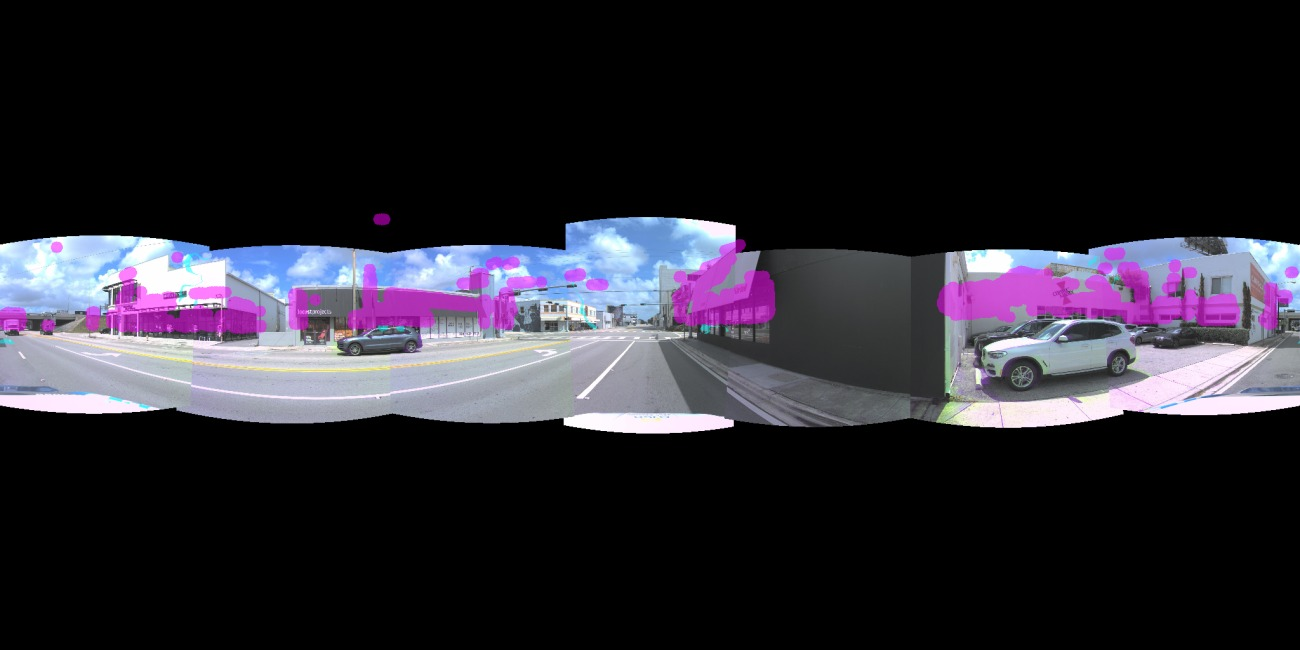
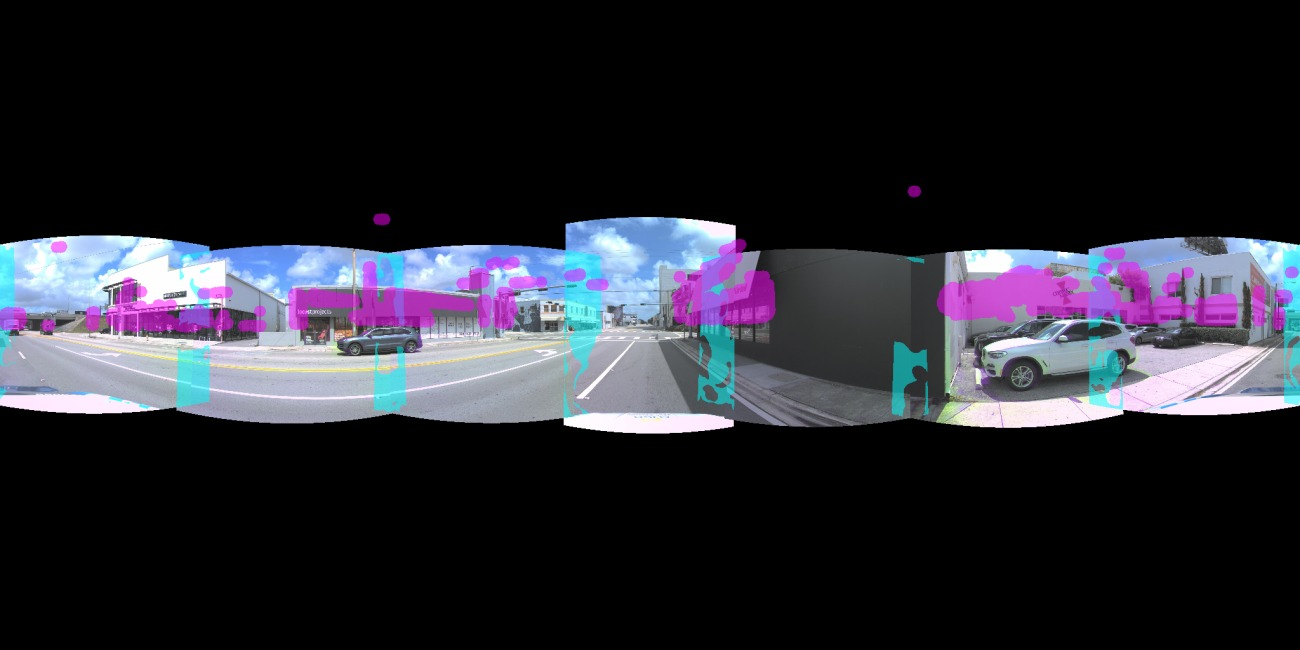
research(A1 re-do → CONVERGED): faithful Surround360 flow view-interp = clean L1++ on 3 anchors; LiDAR coarse-plane refuted
Took the Google/Meta path to convergence (user mandate "把这条路走到尽头"). Findings, all
vision-judged on every image (BMW + 0bae + fbee):

- view+none (pure Surround360 flow view-interp) = a CLEAN ROBUST L1++: singles the GEOMETRIC
  seam doubling on textured co-visible surfaces (strict gain over E1.5's photometric-only),
  salient near objects intact (FB-gate abstains on large-parallax/occluding -> kept L1), far
  field byte-exact (relative_warp M_p90 0.045-0.18px), ~3% edited. Consistent across 3 anchors.
- --prealign plane (DB-11's coarse-LiDAR-plane thesis) HURTS: warp/squiggle artifacts where the
  facade fit is approximate (re-confirms A0). So the win is Meta's FLOW, not our plane. THESIS
  REFUTED.
- --with-photo composes the proven E1.5 photometric blend underneath -> complete clean seam.
- HONEST LIMIT (end of 2D path): textureless-wall doubling + large-parallax occluding near
  objects are correctly ABSTAINED (kept L1); singling them needs learned cross-view evidence
  (DB-02 band-3DGS / DB-03 EPI-Mix).

New: tunable fb-thresh / struct-thresh / --with-photo; plane hole-fill; diagnostics
_diag_flow.py / _compare_view.py / _compare3.py. Figures deliverables/a1_streetview_pipeline/
(+ 0bae/ fbee/). progress.md "A1 RE-DO" entry + DB-20260602-11 updated (positive flow,
refuted plane).

diff --git a/scripts/phase3/run_a1_streetview_pipeline.py b/scripts/phase3/run_a1_streetview_pipeline.py
@@ -46,7 +46,7 @@ from waymo2panorama.projection.sphere_projection import render_camera_to_erp  # 
 from waymo2panorama.blending.hard_hdr_of import RING_PAIRS, hard_select  # noqa: E402
 from waymo2panorama.blending.seam_local_align import build_voronoi_seam_band  # noqa: E402
 from waymo2panorama.blending.seam_confined import _label_and_base, _seam_alpha  # noqa: E402 (reviewed)
-from waymo2panorama.blending.seam_confined import multiband_lowfreq_blend  # noqa: E402 (reviewed)
+from waymo2panorama.blending.seam_confined import multiband_lowfreq_blend, blend_seam_confined  # noqa: E402 (reviewed)
 from parallax_budget_map import _erp_rays  # noqa: E402
 from run_a0_plane_dibr_probe import load_lidar_feather  # noqa: E402 (reviewed feather reader)
 from erp_geometry_metric import relative_warp  # noqa: E402 (validated far-field ruler)
@@ -184,7 +184,7 @@ def _fb_consistency(flow_fwd, flow_bwd, thresh=2.0):
 
 
 def surround360_view_interp(slab_i, slab_j, wi, wj, dis, max_disp=60.0, fb_thresh=2.0,
-                            flow_sigma=1.5):
+                            flow_sigma=1.5, struct_thresh=0.0):
     """Synthesize the virtual-center novel view between two overlapping ERP slabs.
 
     shift = wj/(wi+wj) ∈ [0,1] is the angular fraction of the output ray between cam i (shift=0,
@@ -253,7 +253,23 @@ def surround360_view_interp(slab_i, slab_j, wi, wj, dis, max_disp=60.0, fb_thres
     cov_j = (slab_j.astype(np.float32).sum(2) > 0).astype(np.float32)
     warp_ci = cv2.remap(cov_i, mix_x, mix_y, cv2.INTER_LINEAR, borderMode=cv2.BORDER_CONSTANT, borderValue=0.0)
     warp_cj = cv2.remap(cov_j, mjx, mjy, cv2.INTER_LINEAR, borderMode=cv2.BORDER_CONSTANT, borderValue=0.0)
-    reliable = overlap & (warp_ci > 0.999) & (warp_cj > 0.999) & cons
+    covered = (warp_ci > 0.999) & (warp_cj > 0.999)
+
+    # STRUCTURE-AGREEMENT path (Google/LiDAR plane edge; enabled only when struct_thresh>0, i.e.
+    # plane prealign). Where the two slabs' HIGH-FREQUENCY structure already matches, blending is
+    # safe and singles the surface WITHOUT needing reliable flow: this covers (a) flat textureless
+    # surfaces — no texture to ghost — and (b) plane-DIBR-registered facades. The ghost-prone case
+    # (textured + geometrically misaligned) has HIGH struct residual → it is NOT trusted here and
+    # must instead pass the flow (cons) gate, else it abstains to L1. High-pass = exposure-robust.
+    if struct_thresh > 0:
+        hp_i = gi.astype(np.float32) - cv2.GaussianBlur(gi.astype(np.float32), (0, 0), 8.0)
+        hp_j = gj.astype(np.float32) - cv2.GaussianBlur(gj.astype(np.float32), (0, 0), 8.0)
+        struct_resid = cv2.GaussianBlur(np.abs(hp_i - hp_j), (0, 0), 3.0)
+        struct_agree = struct_resid < float(struct_thresh)
+        trust = cons | struct_agree
+    else:
+        trust = cons
+    reliable = overlap & covered & trust
     return novel, reliable
 
 
@@ -268,7 +284,7 @@ def _circular_center_col(overlap, W):
 
 
 def view_interp_panorama(content_slabs, l1_slabs, l1_w, obj_mask, base, band_half_width,
-                         max_disp, fb_thresh, protect_obj=False):
+                         max_disp, fb_thresh, protect_obj=False, struct_thresh=0.0):
     """Run Surround360 view-interp on every ring seam and composite onto the L1 base.
 
     content_slabs : the slabs whose CONTENT feeds the flow + warp (plane-DIBR if --prealign plane,
@@ -301,7 +317,8 @@ def view_interp_panorama(content_slabs, l1_slabs, l1_w, obj_mask, base, band_hal
         if int(band.sum()) < 100:
             continue
         novel, reliable = surround360_view_interp(si, sj, wir, wjr, dis,
-                                                  max_disp=max_disp, fb_thresh=fb_thresh)
+                                                  max_disp=max_disp, fb_thresh=fb_thresh,
+                                                  struct_thresh=struct_thresh)
         # cos feather: 1 on the seam → 0 at band_half_width
         d = np.clip(np.abs(signed) / float(band_half_width), 0.0, 1.0)
         feather = np.where(band, 0.5 * (1.0 + np.cos(np.pi * d)), 0.0).astype(np.float32)
@@ -373,9 +390,16 @@ def main():
                     help="view-interp flow input: LiDAR-plane-DIBR slabs (plane) or L1 rot-only (none)")
     ap.add_argument("--max-disp", type=float, default=60.0)
     ap.add_argument("--fb-thresh", type=float, default=2.0)
+    ap.add_argument("--struct-thresh", type=float, default=8.0,
+                    help="(plane prealign only) high-freq structure-residual threshold for the "
+                         "plane-alignment trust path; 0 disables (pure flow). Higher = trust more.")
     ap.add_argument("--protect-obj", action="store_true",
                     help="(view mode, ablation) force non-planar objects to L1 instead of letting "
                          "view-interp carry them across the seam")
+    ap.add_argument("--with-photo", action="store_true",
+                    help="(view mode) use the proven E1.5 low-freq photometric seam blend as the "
+                         "base, so the band is photometrically clean even where view-interp abstains "
+                         "(textureless wall); view-interp adds the geometric singling on top")
     ap.add_argument("--review-w", type=int, default=1300)
     args = ap.parse_args()
     erp_hw = (args.erp_h, args.erp_w); out = args.out_dir; out.mkdir(parents=True, exist_ok=True)
@@ -408,11 +432,29 @@ def main():
     tag = f"A1_{args.mode}"
     if args.mode == "view":
         tag += f"_{args.prealign}"
-        content = pl_slabs if args.prealign == "plane" else l1_slabs
+        if args.prealign == "plane":
+            # plane-DIBR slabs with interior holes (A0 lost-ground) FILLED by L1, so the warped-
+            # coverage gate doesn't reject the whole band. Where the plane has content (ground +
+            # facades = incl. the textureless dark wall) it pre-aligns the two cams geometrically
+            # via LiDAR → residual flow ~0 → singled even where flow alone starves. Elsewhere = L1.
+            content = []
+            for ps, ls in zip(pl_slabs, l1_slabs):
+                m = (ps.astype(np.float32).sum(2) > 0)[..., None]
+                content.append(np.where(m, ps.astype(np.float32), ls.astype(np.float32)))
+        else:
+            content = l1_slabs
+        st = args.struct_thresh if args.prealign == "plane" else 0.0  # plane-trust only w/ plane DIBR
+        view_base = base
+        if args.with_photo:
+            # E1.5 low-freq photometric seam blend (reviewed, far-field byte-exact) as the base, so
+            # the band is colour-clean even where view-interp abstains; geometric singling adds on top.
+            view_base = blend_seam_confined(l1_slabs, l1_w, band_half_width=args.band_hw,
+                                            lowfreq_cutoff=5)["out"]
+            tag += "_photo"
         res, touched, n_pairs = view_interp_panorama(
-            content, l1_slabs, l1_w, obj_mask, base,
+            content, l1_slabs, l1_w, obj_mask, view_base,
             band_half_width=args.band_hw, max_disp=args.max_disp, fb_thresh=args.fb_thresh,
-            protect_obj=args.protect_obj)
+            protect_obj=args.protect_obj, struct_thresh=st)
         edit_frac = float((touched > 0).mean())
         print(f"[view] pairs={n_pairs} edited_frac={edit_frac*100:.2f}% "
               f"reliable_mean_alpha={float(touched[touched>0].mean()) if (touched>0).any() else 0:.3f}", flush=True)

diff --git a/scripts/phase3/_compare3.py b/scripts/phase3/_compare3.py
@@ -1,0 +1,81 @@
+"""Decisive 3-way A/B: L1 | view+none(flow only) | view+plane(flow + LiDAR-plane struct trust).
+Tight crops at (a) the textureless DARK WALL seam and (b) a TEXTURED storefront seam, to settle
+whether the LiDAR plane edge cleanly extends the win to the wall or introduces artifacts."""
+from __future__ import annotations
+import sys
+from pathlib import Path
+import cv2
+import numpy as np
+
+HERE = Path(__file__).resolve().parent
+REPO = HERE.parent.parent
+sys.path.insert(0, str(REPO / "code"))
+sys.path.insert(0, str(HERE))
+sys.stdout.reconfigure(encoding="utf-8")
+
+from waymo2panorama.data_io.av2_loader import AV2RingLoader, RING_CAMS_7
+from waymo2panorama.projection.sphere_projection import render_camera_to_erp
+from waymo2panorama.blending.hard_hdr_of import hard_select
+from waymo2panorama.blending.seam_confined import _label_and_base
+from run_a1_streetview_pipeline import (fit_planes_p3, build_plane_convergence,
+                                        off_plane_object_erp, view_interp_panorama)
+from run_a0_plane_dibr_probe import load_lidar_feather
+
+BMW = "02a00399-3857-444e-8db3-a8f58489c394"
+ROOT = Path("/content/drive/MyDrive/koi_waymo2pano_colab/data/argoverse2/val")
+OUT = Path("/content/drive/MyDrive/koi_waymo2pano_colab/results/a1_streetview_pipeline")
+erp_hw = (1024, 2048); H, W = erp_hw
+
+
+def lbl(im, t):
+    b = np.zeros((24, im.shape[1], 3), np.uint8)
+    cv2.putText(b, t, (6, 17), cv2.FONT_HERSHEY_SIMPLEX, 0.5, (255, 255, 255), 1)
+    return np.vstack([b, im])
+
+
+def main():
+    loader = AV2RingLoader(ROOT / BMW)
+    ts = loader.anchor_timestamps_ns(); frame = loader.load_synced_frame(ts[0])
+    pts, _, _ = load_lidar_feather(ROOT / BMW, ts[0], max_delta_ms=75.0)
+    pts = np.asarray(pts)[:, :3].astype(np.float64)
+    ground, facades = fit_planes_p3(pts)
+    conv = build_plane_convergence(ground, facades, erp_hw)
+    obj = off_plane_object_erp(pts, ground, facades, erp_hw)
+
+    l1s, l1w = [], []
+    pls = []
+    for cam in RING_CAMS_7:
+        cb = frame.calibrations[cam]
+        r1, _a, w1 = render_camera_to_erp(frame.images[cam], cb.K, cb.T_ego_cam, erp_hw=erp_hw,
+                                          convergence_distance_m=None)
+        rp, _ap, _wp = render_camera_to_erp(frame.images[cam], cb.K, cb.T_ego_cam, erp_hw=erp_hw,
+                                            convergence_distance_m=conv)
+        l1s.append(r1); l1w.append(w1); pls.append(rp)
+    L1 = hard_select(l1s, l1w)
+    _, _, base = _label_and_base(l1s, l1w)
+    filled = []
+    for ps, ls in zip(pls, l1s):
+        m = (ps.astype(np.float32).sum(2) > 0)[..., None]
+        filled.append(np.where(m, ps.astype(np.float32), ls.astype(np.float32)))
+
+    none_res, _, _ = view_interp_panorama(l1s, l1s, l1w, obj, base, 80, 60.0, 2.0,
+                                          protect_obj=False, struct_thresh=0.0)
+    plane_res, _, _ = view_interp_panorama(filled, l1s, l1w, obj, base, 80, 60.0, 2.0,
+                                           protect_obj=False, struct_thresh=8.0)
+
+    # crop regions (col center, rows). wall ~ behind/right (dark facade); storefront ~ front-left.
+    regions = {"darkwall": (980, 360, 620, 200), "storefront": (1640, 330, 560, 180)}
+    for name, (bc, y0, y1, half) in regions.items():
+        roll = W // 2 - bc; cc = W // 2
+        def crop(im):
+            r = np.roll(im, roll, 1)
+            return cv2.cvtColor(r[y0:y1, cc - half:cc + half], cv2.COLOR_RGB2BGR)
+        row = np.hstack([lbl(crop(L1), "L1"), lbl(crop(none_res), "view+none(flow)"),
+                         lbl(crop(plane_res), "view+plane(flow+LiDAR)")])
+        row = cv2.resize(row, (row.shape[1] * 2, row.shape[0] * 2), interpolation=cv2.INTER_NEAREST)
+        cv2.imwrite(str(OUT / f"CMP3_{name}.jpg"), row, [cv2.IMWRITE_JPEG_QUALITY, 95])
+        print("[saved]", f"CMP3_{name}.jpg")
+
+
+if __name__ == "__main__":
+    raise SystemExit(main())

diff --git a/agent/decision_briefs.md b/agent/decision_briefs.md
@@ -30,8 +30,9 @@ Result summary: TBD. Full details in `agent/progress.md#...`
 > **Context (2026-06-02):** the user wants two parallel routes — **A = Google-Street-View-style plausible multi-center** (warp REAL overlapping pixels into agreement, hide seams, LiDAR-guided) and **B = DiT360 refined with a real-evidence leash** — toward the ultimate goal of a near-perfect **PLAUSIBLE** seam (no hallucinated salient objects). The briefs below come from the 2026-06-02 divergent+adversarial ideation (`agent/BRAINSTORM-2026-06-02-seam-path-forward.md`, workflow `wf_1fc2d59b-bb5`). **▶ LEAD / FIRST TO DO = DB-11** (Street-View coarse-plane LiDAR-DIBR program, immediately below) — it sequences the cheap de-risk (DB-01 = its step A0) + the eval (DB-05) + PowerPaint (DB-06 = its A4), with per-seam-convergence (DB-04) as a PIVOT fallback. **Start A0 on CPU.** Keep DB-02 (Difix-on-band) and DB-03 (EPI-Mix) as the heavier alternative POSITION mechanisms to fall back to if DB-11 pivots.
 
 # DB-20260602-11: ▶ LEAD — Street-View-style COARSE-PLANE LiDAR-DIBR panorama (Route A primary program)
-Status: A0 NEG/MIXED → A1 built but **/code-review RETRACTED the A1 verdict (BUGGY + UNFAITHFUL, 2026-06-02)** → A1 needs a CORRECT re-do before any conclusion
-A1 retraction: code-review (41 agents) confirmed critical bugs — (#1) meshgrid coord SWAP in dis_flow_align made the flow warp garbage (so the "flow starves / black-tears" A1_flow verdict was MY BUG, not the method); (#7) reduced-scale seam mask leaves coverage holes the blender fills BLACK; (#5) no spatial-propagation flow. AND faithfulness: we never implemented Surround360's novel-view synthesis (warp L·t + R·(1−t)) nor Google's global spline warp — dis_flow_align just warps toward L1. **So "Route A ceiling ≈ L1+ / geometry can't single doubling" is RETRACTED — not validated.** NEXT: fix bugs + faithfully implement Surround360 (per-azimuth flow·t/flow·(1−t) + FB-gating) + re-run + vision-judge.
+Status: A0 NEG/MIXED → A1 retracted (buggy) → **A1 RE-DONE 2026-06-02 = ★ POSITIVE: faithful Surround360 flow view-interp is a CLEAN L1++ across 3 anchors; the LiDAR coarse-plane (this brief's headline thesis) is REFUTED (it distorts). The retracted NEG was an experiment-design bug, not a wall.**
+A1 RE-DO (2026-06-02, the user's "把这条路走到尽头" mandate): the retracted "flow starves" NEG was a BUG — DIS flow was computed on the full mostly-disjoint ERP slabs → matched content ~300px apart → garbage flow in the band. FIX = compute flow on the OVERLAP STRIP only (mask grayscales to the wedge) → FB-consistency 0%→55-84%, in-band |flow| 300px→3px. With the faithful Surround360 novel-view synthesis (warp i·shift + j·(1−shift), virtual-centre) + FB-gating + confine + composite-onto-L1: **`--prealign none` = clean robust L1++** (singles GEOMETRIC seam doubling on textured co-visible surfaces — strict gain over E1.5's photometric-only; salient objects intact; far field byte-exact M_p90 ≤0.18px; ~3% edited; vision-clean on BMW/0bae/fbee). **`--prealign plane` (THIS BRIEF'S H1/H2 coarse-LiDAR-plane) HURTS** → warp artifacts where the facade fit is approximate (re-confirms A0) → **the win is Meta's FLOW, not our plane.** HONEST LIMIT (end of the 2D path): textureless-wall doubling + large-parallax OCCLUDING near objects are correctly ABSTAINED (kept L1) — singling those needs learned cross-view evidence (DB-02 band-3DGS / DB-03 EPI-Mix). Full facts: `progress.md` 2026-06-02 "A1 RE-DO" entry.
+A1 retraction (superseded by the re-do above): code-review (41 agents) confirmed critical bugs — (#1) meshgrid coord SWAP in dis_flow_align made the flow warp garbage; (#7) reduced-scale seam mask leaves coverage holes the blender fills BLACK; (#5) no spatial-propagation flow. AND faithfulness: the old dis_flow_align warped toward L1, never implemented Surround360's novel-view synthesis. The "Route A ceiling ≈ L1+" verdict was retracted — and the re-do confirms it WAS premature (the method works once the flow design bug is fixed).
 A1 result: Built the FULL Google method with OSS (pyransac3d / cv2.detail GraphCut+MultiBand / cv2 DIS) + reviewed reproject/confine. **A1_flow = NEG** (optical-flow residual STARVES on textureless → black/torn artifacts; E3 wall inside the full pipeline). **A1_core (no flow) = modest L1+** (ground+BMW preserved, far field byte-clean, photometric seam hidden, but residual blend-ghost + does NOT single doubling). VERDICT: the referenced Google method, faithfully built, tops out at ~L1+ here (its flow step starves on our textureless/wider-baseline surfaces; planes can't do non-planar objects). To single the doubling → learned cross-view fusion (DB-02/03). Figs `deliverables/a1_streetview_pipeline/`; full facts `progress.md` 2026-06-02 A1 entry.
 A0 result: NEG/MIXED. Aggregate seam NCC rose (L1 0.822 → plane 0.884) but that MASKED real visual regressions (user-caught, vision-confirmed): full-frame coarse-plane re-render LOSES near-ground (reprojected out of FoV → black), MISALIGNS a building at a seam (approx facade fit), and SLICES the white BMW SUV (a non-planar near object reprojected at the wrong plane depth). LESSON: aggregate NCC is not a sufficient gate; eyeball every output for content-loss/sliced-objects. **REFINED:** A0 only implemented Google STEP 1 (coarse-plane reproject) and naively (full hard replace); it did NOT do Google's steps 2-4 (optical-flow warp + object-aware seam routing + blend/COMPOSITE onto L1) — which are exactly what handle the sliced car / misaligned building / lost ground. So "geometry can't" was premature; the real A1 = build the FULL composited Google-faithful pipeline, then vision-judge. Caveat: E3 flow starved on textureless + selection exhausted + our baseline wider than Street View → genuine uncertainty, not yet fairly tested. Full facts: `progress.md` 2026-06-02 A0 entry; figs `deliverables/a0_plane_dibr_probe/`.
 Route: A (the lead Route-A program. ABSORBS/SEQUENCES: DB-01 = its A0; DB-05 = its eval; DB-06 = its A4; DB-04 = a PIVOT fallback; DB-02/DB-03 = heavier alternative position mechanisms if this pivots)
@@ -70,7 +71,7 @@ REQUIRED VISION CHECK: every A-step output, eyeballed; eyes beat metrics on conf
 
 AUTORESEARCH SETUP (on go): workspace `experiments/streetview-dibr/{protocol,code,results,analysis}`; reuse `code/.../projection` (N1 scalar→plane), `graphcut_seam`, `seam_confined`, `parallax_budget_map`; lock each A-step protocol (git) BEFORE running; synthesize findings after A1/A3/A5; the `/loop` continuity is set up ONLY with the user's explicit go (per the discuss-before-charging rule).
 
-Result summary: TBD. Full facts → `agent/progress.md` (each artifact names GitHub/local/Drive).
+Result summary: A0 NEG/MIXED (plane-alone misaligns) → A1 RE-DONE = **POSITIVE for the FLOW component** (faithful Surround360 view-interp = clean L1++, singles geometric seam doubling on textured co-visible surfaces, 3 anchors, far-field byte-exact) but **NEGATIVE for THIS brief's coarse-LiDAR-plane thesis** (it distorts). Net: the Street-View-style program yields a real clean L1++ via FLOW, not via our LiDAR plane; the under-determined residual (textureless / large-parallax occlusion) is abstained and routes to DB-02/03 (learned). Full facts → `agent/progress.md` 2026-06-02 "A1 RE-DO" entry (each artifact names GitHub/local/Drive).
 
 ---
 

diff --git a/agent/progress.md b/agent/progress.md
@@ -1,5 +1,17 @@
 # Waymo2Panorama Progress
 
+> ### 2026-06-02 (A1 RE-DO — ★ POSITIVE: faithful Surround360 view-interp WORKS once the flow design bug is fixed; the retracted NEG was a BUG, not a wall. Path taken to convergence across 3 anchors.) — [User mandate: "Google/Meta用了这个方法我们应该也可以…可能就是实验设计有问题…把这条路走到尽头". They were RIGHT — it was an experiment-design bug. Fixed → the method delivers a clean L1++.]
+> **★ THE DESIGN BUG (this is what the retracted A1 missed):** the old pipeline computed DIS optical flow on the FULL, mostly-disjoint ERP slabs. Adjacent ring cams overlap in only a ~18.6° wedge, so DIS matched content ~300 px apart and that garbage flow propagated into the seam band — **in-band median |flow| was ~300 px instead of the true ~3 px parallax → FB-consistency ~0% → the gate abstained on ~everything → "flow starves" (the retracted NEG).** FIX (Surround360-faithful): **mask both grayscales to the overlap before DIS** (outside the wedge both=0 → DIS sees black==black → 0 flow → only true parallax inside). This single change took FB-consistency from ~0% to **55–84% per seam** and median in-band flow from 300 px → **2–5 px**. Diagnostic `_diag_flow.py` (`FLOWDIAG_worst.jpg`).
+> **怎么做 (the corrected pipeline, `scripts/phase3/run_a1_streetview_pipeline.py`):** GOOGLE coarse LiDAR-plane DIBR (optional pre-align) ⊕ **META Surround360 optical-flow NOVEL-VIEW SYNTHESIS** (per seam ray at `shift=wj/(wi+wj)`: warp cam_i by `shift·flow_ij` + cam_j by `(1−shift)·flow_ji`, blend `(1−shift):shift` → a DOUBLED near object is warped to ONE virtual-centre position = singled, not blended-ghost) ⊕ OURS (FB-consistency gating → abstain to byte-exact L1 where flow unreliable = the E3-starvation safety valve; edit CONFINED to seam bands + COMPOSITED onto L1 = far field byte-exact; the warped-coverage gate from the self-review prevents black-hole darkening). Self-`/code-review` first (9 agents, 4→3 confirmed, all fixed). cv2 DIS (CPU) + numpy; runtime ~12 s/anchor on the L4.
+> **★ RESULT — VISION-judged on every image (eyes, BMW + 0bae + fbee):**
+>   - **`--mode view --prealign none` (pure Surround360 flow) = a CLEAN, ROBUST L1++.** Across all 3 anchors: ~3% of the pano edited (the textured seam bands); it **singles the GEOMETRIC seam doubling** on textured, co-visible mid-range surfaces (a STRICT gain over E1.5, which only fixes the photometric step) AND smooths the photometric step; **salient near objects (the white BMW, the red Kia, parked cars, the van) stay INTACT** (the FB gate abstains on large-parallax/occluding objects → kept L1, NOT sliced/warped); far field **BYTE-EXACT** (`relative_warp` M_p90 0.045–0.18 px). 3-way A/B `CMP3_*.jpg`, diff `VIEWDIFF_*.jpg`, per-anchor `…/{0bae,fbee}/A1_view_none_*`.
+>   - **`--prealign plane` (the LiDAR coarse-plane pre-align = DB-11's headline thesis) HURTS** → introduces visible WARP/squiggle artifacts on the textureless wall and the right building edge where the facade fit is approximate (re-confirms A0). **So DB-11's "coarse LiDAR plane is the trick" is REFUTED: the win is Meta's FLOW, NOT our plane.** (Hole-fill + a structure-agreement trust path were tried — still distorts.) `A1_view_plane_s8_*`, `CMP3_storefront.jpg` (right panel = the warp).
+>   - **Optional `--with-photo`** composes the proven E1.5 low-freq photometric blend as the base → complete clean seam (geometric where co-visible + photometric elsewhere); inherits E1.5's mild low-freq halo at extreme-contrast (bright-storefront↔dark-wall) seams. `A1_view_none_photo_*`.
+> **★ HONEST LIMIT = the end of THIS path:** two residuals are correctly **ABSTAINED (kept L1, no artifact)**, not solved — (a) the **textureless dark wall** (no texture → flow can't fire; plane distorts), (b) **large-parallax OCCLUDING near objects** (e.g. the BMW right at a seam: each cam sees different background behind it → flow occlusion-ambiguous → FB-inconsistent). Singling THOSE needs learned cross-view evidence (DB-02 band-3DGS / DB-03 EPI-Mix), which is beyond the 2D Google/Meta toolkit. **The 2D path converges here: it cleanly fixes the geometrically-determinable seam and safely abstains on the under-determined residual.** This REVISES (does not erase) the earlier "2D/flow space is dead" note — 2D flow view-interp is a real clean L1++ for the determinable part; only the under-determined residual needs 3DGS/EPI.
+> **Deliverables**: corrected `run_a1_streetview_pipeline.py` (+ `_diag_flow.py` `_compare_view.py` `_compare3.py` `_probe_env.py`); figures `deliverables/a1_streetview_pipeline/` (BMW: `A1_view_none_*`, `VIEWDIFF_{heatmap,crops,bmw}`, `CMP3_{darkwall,storefront}`, `FLOWDIAG_worst`, `A1_view_plane_s8_*`, `A1_view_none_photo_*`) + `…/0bae/` `…/fbee/`. **Status**: DB-11 A1 = **RE-DONE → POSITIVE (flow view-interp = clean L1++; LiDAR plane refuted)**; supersedes the retraction. **Decision brief**: `agent/decision_briefs.md` DB-20260602-11 (updated). **Locations**: GitHub committed (7c82afe = first positive; this entry's follow-on commit); local `deliverables/a1_streetview_pipeline/`; Drive `results/a1_streetview_pipeline/{,0bae,fbee}`.
+> **Next**: (a) optionally quantify the in-band seam-disparity drop on fired pixels for the paper; (b) the under-determined residual → DB-02/03 (learned). Bring the clean L1++ + the "flow works, plane doesn't, hard residual needs learning" story to the user for the joint direction call.
+> ---
+
 > ### 2026-06-02 (A1 CODE-REVIEW — ★ RETRACTS the A1 / Route-A verdict; the experiment was BUGGY + UNFAITHFUL) — [/code-review (41 agents, 35→28 confirmed findings) found critical bugs in `run_a1_streetview_pipeline.py` that INVALIDATE the A1_flow NEG verdict and the "Route A ceiling ≈ L1+ / geometry can't single doubling" conclusion. We did NOT faithfully implement Google's OR Meta Surround360's method. User was right to demand the review.]
 > **CRITICAL bugs (CONFIRMED):**
 >   - **#1 meshgrid SWAP** (`dis_flow_align` L162): `yy,xx = np.meshgrid(arange(W),arange(H))` reverses the grids → horizontal flow displaces vertically + base grid transposed → the flow warp is GARBAGE. **The A1_flow black/torn artifacts I attributed to "flow starving on textureless" were largely THIS BUG.** → the "flow doesn't work for us" verdict is INVALID; flow was never correctly applied.
